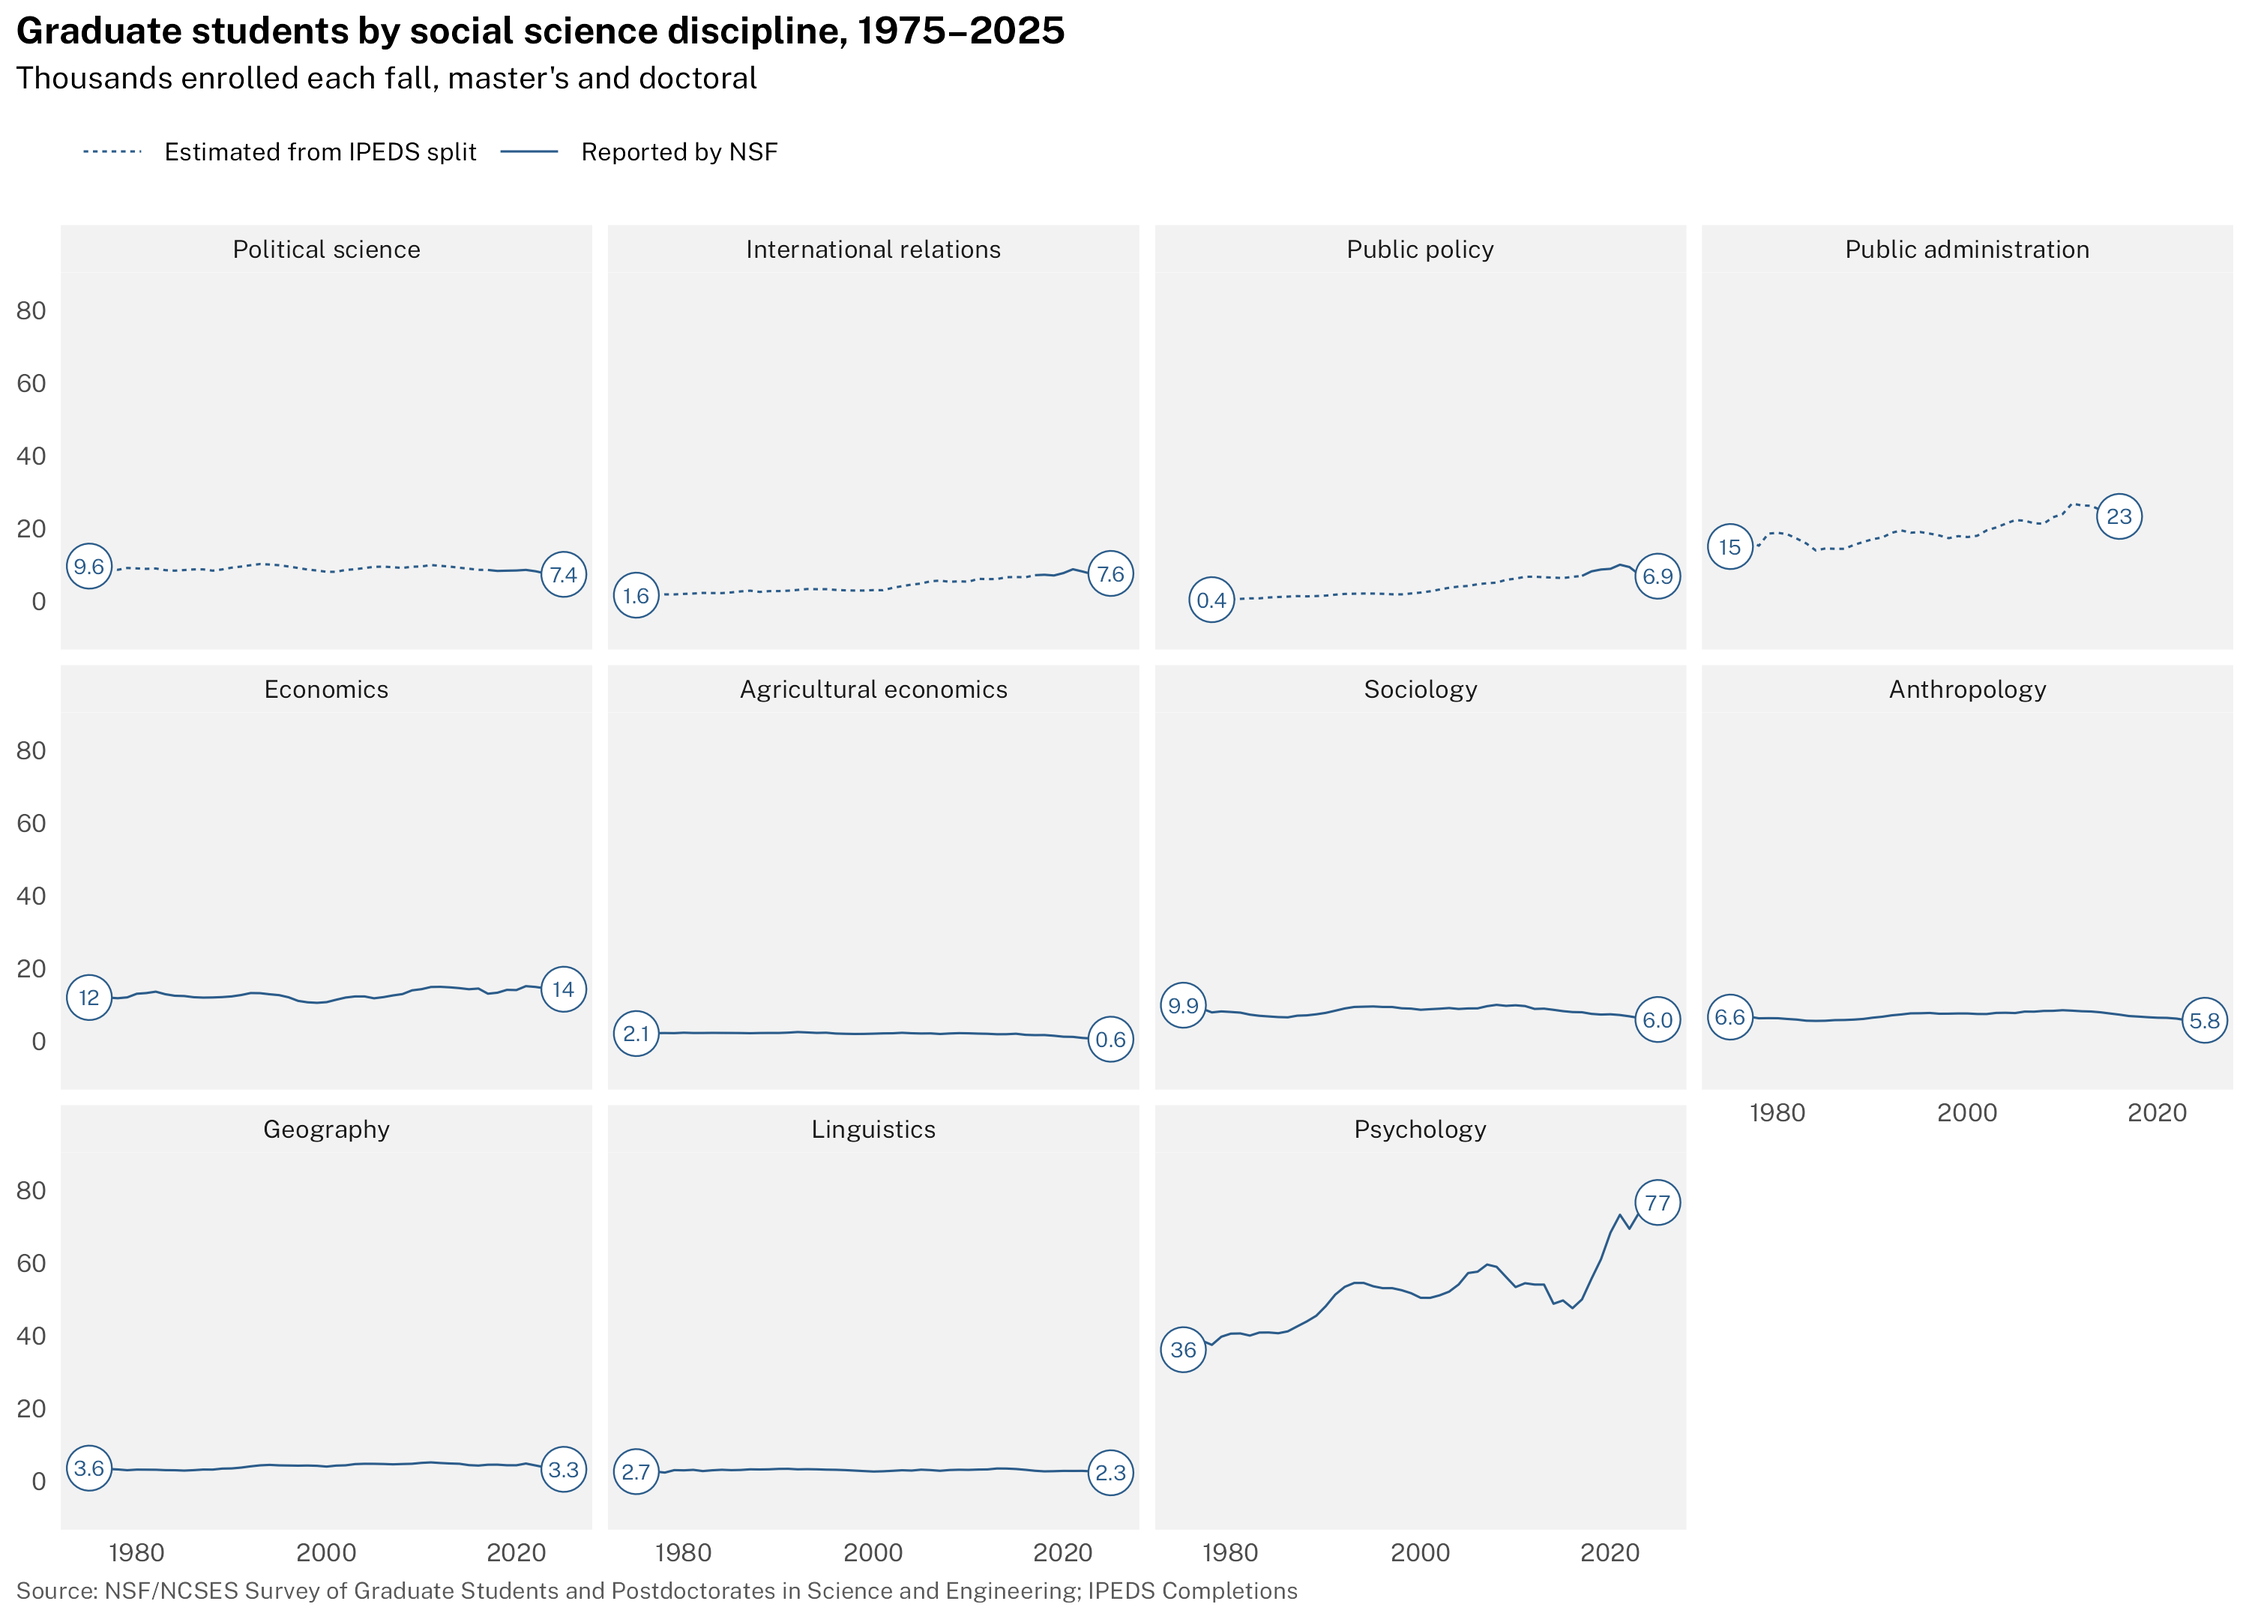
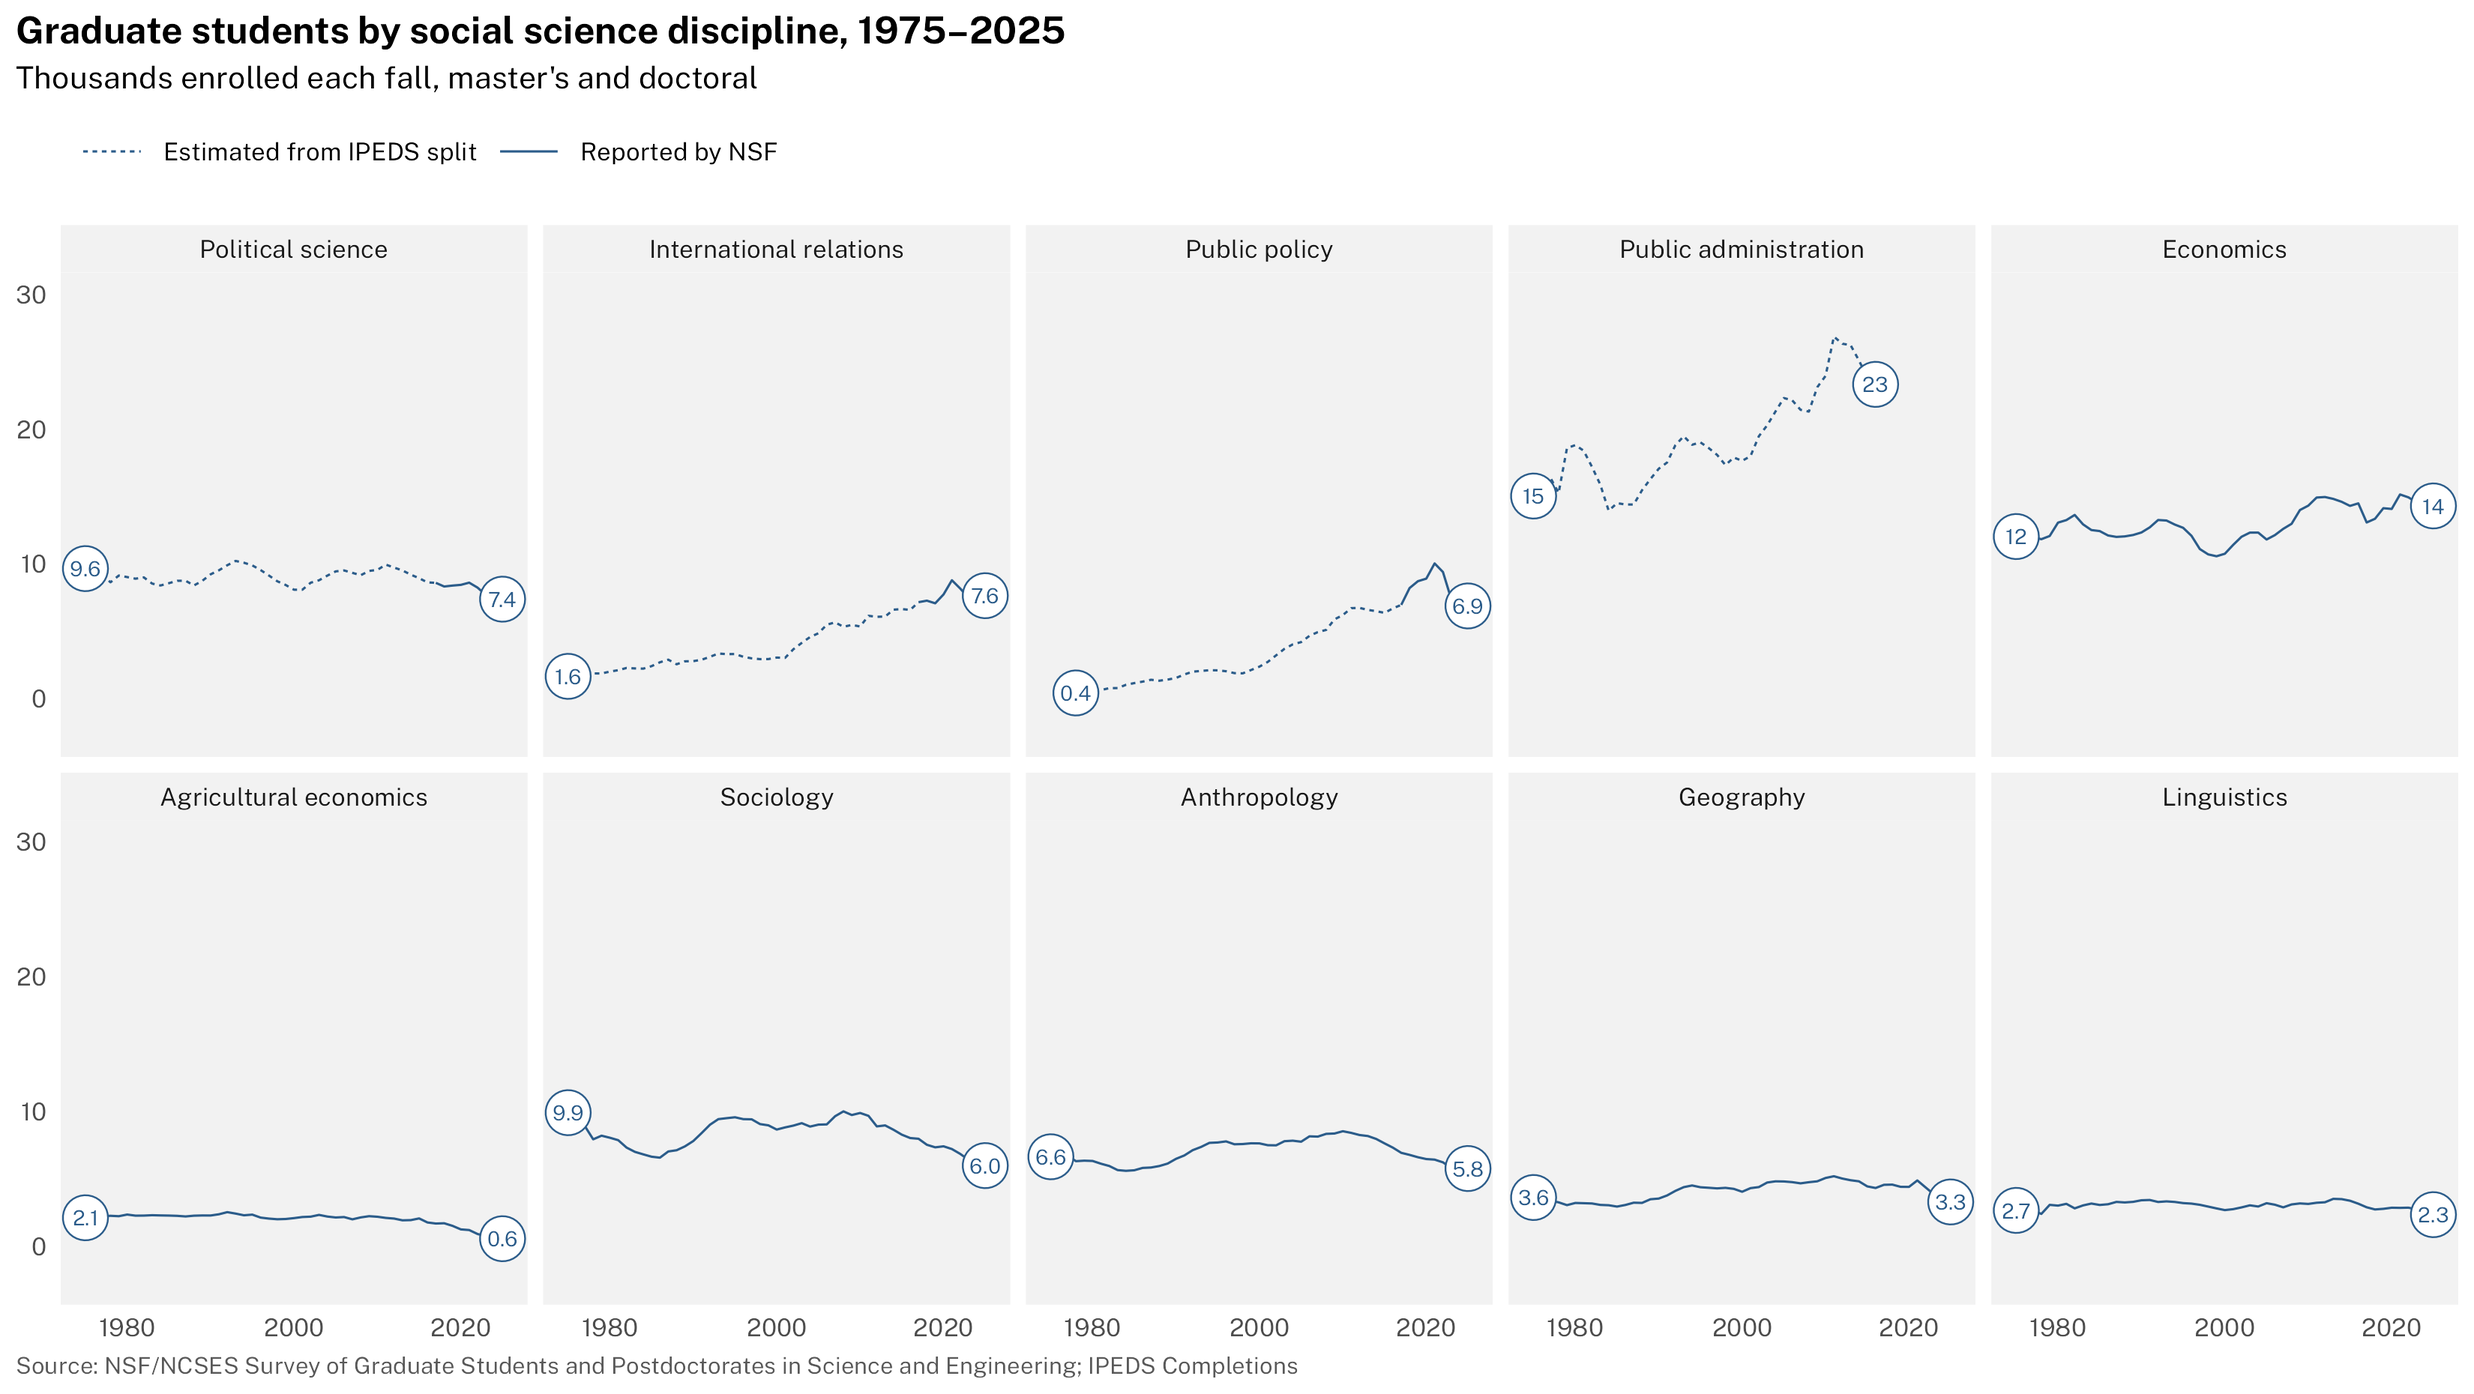
Drop psychology from the discipline figure; two rows of five panels

diff --git a/README.md b/README.md
@@ -11,8 +11,9 @@ Psychology is reported alongside, since NSF treats it as its own broad field.
 
 `R/plot_disciplines.R` draws the figure (`Rscript R/plot_disciplines.R` from the repo root; needs dplyr,
 tidyr, readr, ggplot2, ragg and the Public Sans font). Dashed lines are the estimated split of NSF's pre-2017
-political science code (see below). Criminology and criminal justice are left out: they sat inside "other
-social sciences" until 2017, and criminology only got its own code in 2020.
+political science code (see below). Psychology is left out (NSF treats it as its own broad field). Criminology and
+criminal justice are left out too: they sat inside "other social sciences" until 2017, and criminology only got
+its own code in 2020. All panels share one y axis.
 
 ## Outputs (`output/`)
 
